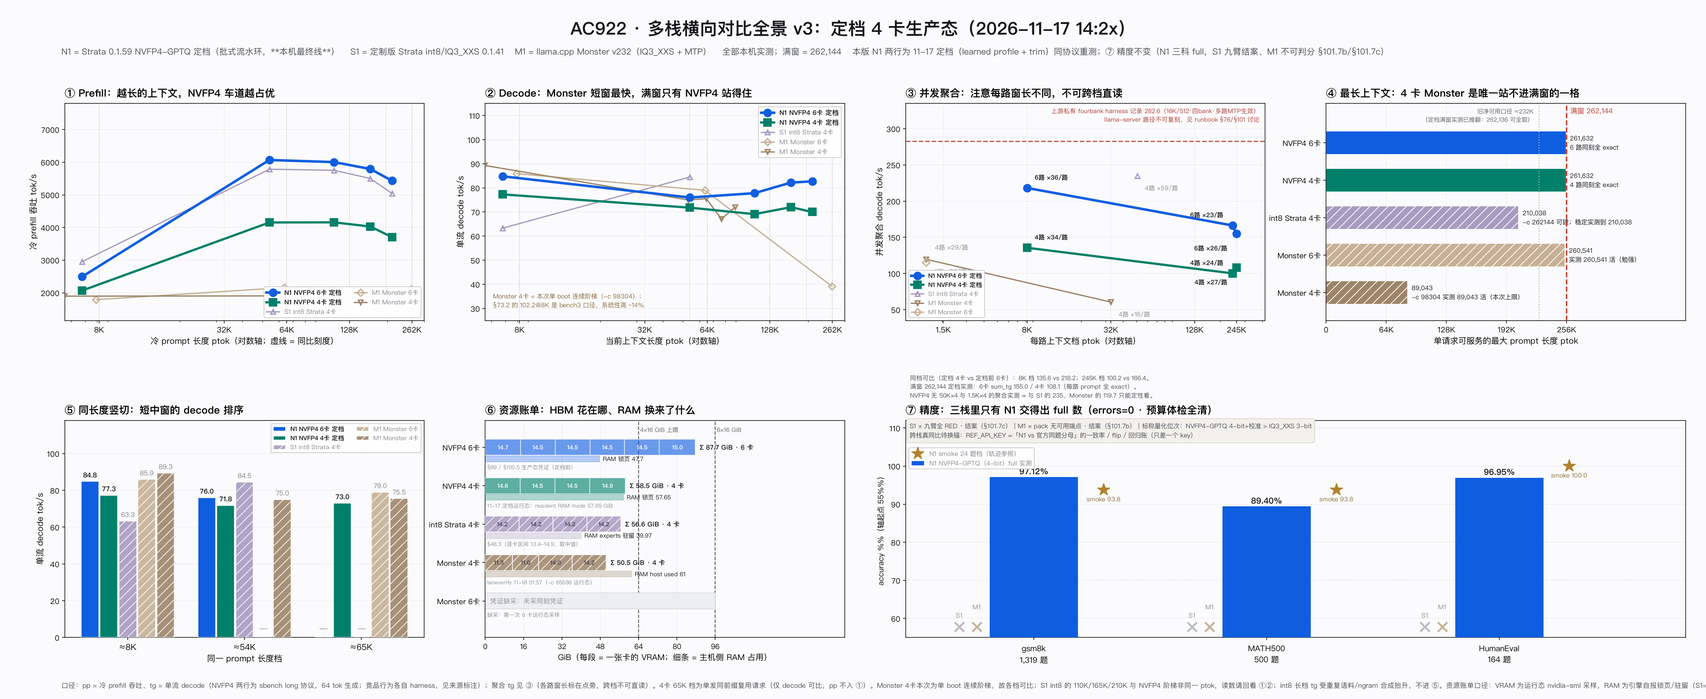
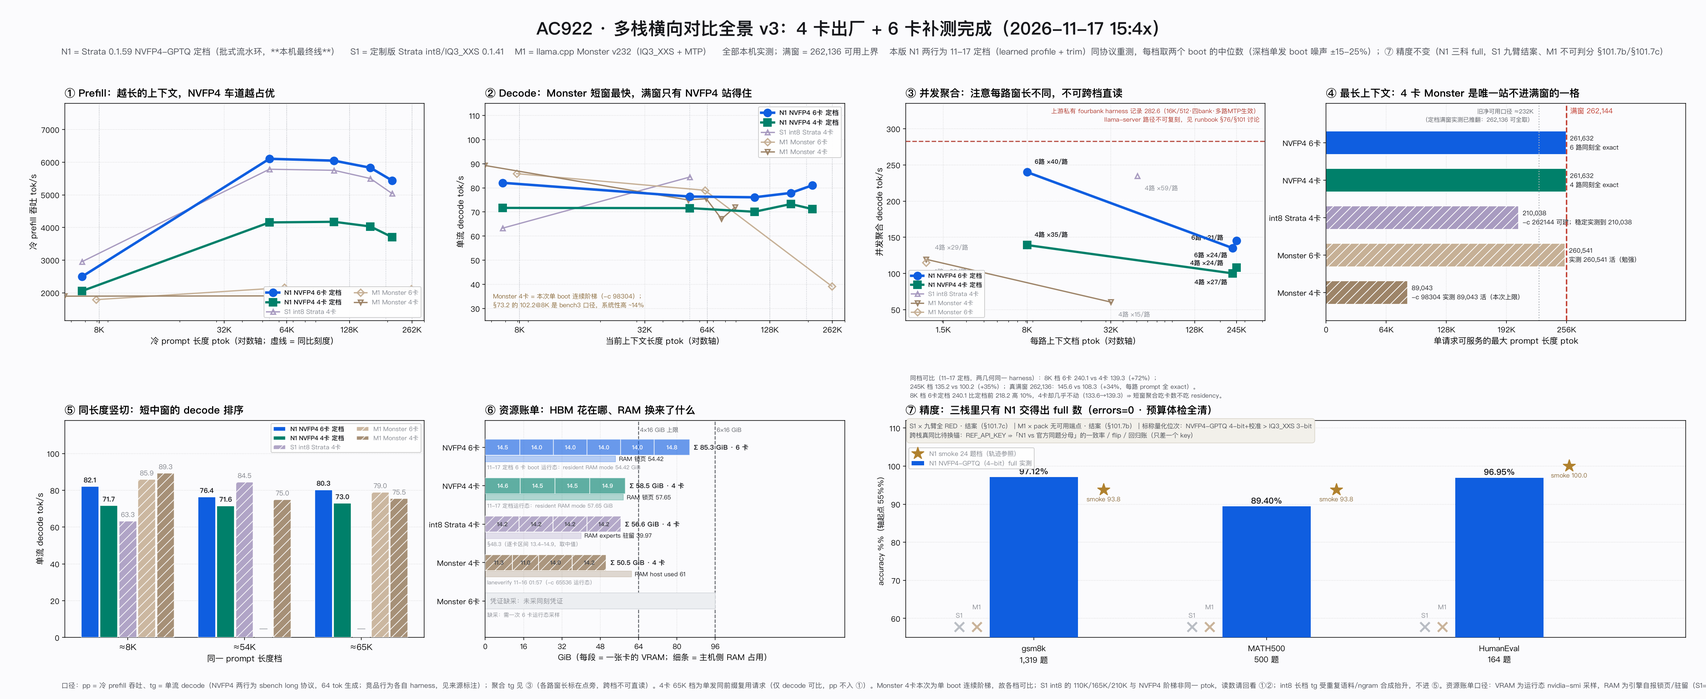
docs: publish two-boot medians, close the 6-card gap, and make lane.sh the geometry entry

diff --git a/ac922/results/charts/plot-samelen-v3-2026-11-17.py b/ac922/results/charts/plot-samelen-v3-2026-11-17.py
@@ -25,11 +25,13 @@ GRID, CLOUD = "#c2c6cd", "#8a8d94"
 # ---------- 数据：全部为实测（来源见注释），None = 该长度未测/不可达 ----------
 # (ptok, pp tok/s, tg tok/s)
 # 两条 NVFP4 阶梯为 2026-11-17 定档配置（learned expert-profile + trim-stage-weights）同一 sbench
-# long 协议实测，x 值逐点相同 ⇒ ①②⑤ 三格都是严格同比。
-N6 = [(6786, 2494.7, 84.8), (54022, 6068.7, 76.0), (110526, 6003.6, 77.8), (165350, 5791.7, 82.2),
-      (210038, 5431.4, 82.7)]                                                                        # note_c17/ADOPT.long 6卡定档
-N4 = [(6786, 2069.1, 77.3), (54022, 4154.3, 71.8), (110526, 4158.1, 69.1), (165350, 4029.5, 72.0),
-      (210038, 3704.2, 70.0)]                                                                        # note_c17/4CARD.long 4卡定档
+# long 协议实测，且每档取 **两个 boot 的中位数**（深档单发 boot 噪声 ±15-25%，单 boot 不作结论）：
+# 4 卡 note_c17/4CARD.long + 4CARD2.long；6 卡 note_c17/ADOPT.long + 6CARD2.long。x 值逐点相同
+# ⇒ ①②⑤ 三格严格同比。
+N6 = [(6786, 2498.8, 82.1), (54022, 6104.3, 76.4), (110526, 6047.4, 76.1), (165350, 5830.7, 77.9),
+      (210038, 5441.2, 81.1)]
+N4 = [(6786, 2056.6, 71.7), (54022, 4156.1, 71.6), (110526, 4174.8, 70.1), (165350, 4031.5, 73.3),
+      (210038, 3706.8, 71.2)]
 S1 = [(6786, 2955, 63.3), (54022, 5785, 84.5), (110526, 5752, None), (165350, 5501, None), (210038, 5041, None)]  # §48.3 int8 Strata 4卡
 M6 = [(7925, 1789.7, 85.9), (63729, 2158.5, 79.0), (260541, 2120.7, 39.2)]                          # §74.5 Monster 6卡 MTP
 M4 = [(5570, 1896.8, 89.3), (52961, 1904.6, 75.0), (64772, 1945.9, 75.5),
@@ -46,16 +48,17 @@ STACKS = [
 ]
 
 # ⑤ 的 65K 档补点：单发同前缀复用请求，只有 decode 可比（pp 不入 ①），故单独登记
-DECODE65 = {"N1 NVFP4 4卡 定档": (65410, None, 73.0)}   # note_c17/4CARD.p65k
+DECODE65 = {"N1 NVFP4 4卡 定档": (65410, None, 73.0),      # note_c17/4CARD.p65k
+            "N1 NVFP4 6卡 定档": (65410, None, 80.3)}      # note_c17/6CARD2.p65k
 
 # ---------- ③ 多流聚合 decode：(每路上下文 ptok, 聚合 tg, 路数, 每路 tg, 来源) ----------
 AGG = {
-    "N1 NVFP4 6卡 定档": [(8192, 218.2, 6, 35.7, "§99 d8（定档前）"),
-                          (245000, 166.4, 6, 23.4, "§99 live（定档前）"),
-                          (261632, 155.0, 6, 25.8, "11-17 满窗 6×262,144 exact")],
-    "N1 NVFP4 4卡 定档": [(8192, 135.6, 4, 33.7, "11-17 aggbench d8"),
+    "N1 NVFP4 6卡 定档": [(8192, 240.1, 6, 39.7, "11-17 aggbench d8"),
+                          (245000, 135.2, 6, 21.4, "11-17 aggbench 245K"),
+                          (261632, 145.6, 6, 24.3, "11-17 满窗 6×262,136 exact ×2 中位")],
+    "N1 NVFP4 4卡 定档": [(8192, 139.3, 4, 34.8, "11-17 aggbench d8 ×2 中位"),
                           (245000, 100.2, 4, 24.4, "11-17 aggbench 245K"),
-                          (261632, 108.1, 4, 27.0, "11-17 满窗 4×262,144 exact")],
+                          (261632, 108.3, 4, 27.1, "11-17 满窗 4×262,136 exact ×2 中位")],
     "S1 int8 Strata 4卡": [(50654, 235.0, 4, 59.0, "§48.4")],
     "M1 Monster 4卡":     [(1536, 119.7, 4, 38.6, "§76"), (32768, 60.5, 4, 15.1, "§48")],
     "M1 Monster 6卡":     [(1536, 115.3, 4, 28.8, "§76")],
@@ -65,8 +68,8 @@ AGG_ANCHOR = (282.6, "上游私有 fourbank harness 记录 282.6（16K/512·四b
 # ---------- ⑥ 资源账单 ----------
 # per_card = 逐卡 VRAM GiB；ram = 主机侧锁页/驻留 GiB
 RES = [
-    ("NVFP4 6卡", [14.7, 14.5, 14.5, 14.5, 14.5, 15.0], H6, 47.7, "锁页 47.7",
-     "§99 / §100.5 生产态凭证（定档前）"),
+    ("NVFP4 6卡", [14.5, 14.0, 14.0, 14.0, 14.0, 14.8], H6, 54.42, "锁页 54.42",
+     "11-17 定档 6 卡 boot 运行态：resident RAM mode 54.42 GiB"),
     ("NVFP4 4卡", [14.6, 14.5, 14.5, 14.9], H4, 57.65, "锁页 57.65",
      "11-17 定档运行态：resident RAM mode 57.65 GiB"),
     ("int8 Strata 4卡", [14.15, 14.15, 14.15, 14.15], C_S1, 39.97, "experts 驻留 39.97",
@@ -78,12 +81,13 @@ RES = [
 
 fig = plt.figure(figsize=(31.2, 12.8), dpi=140, facecolor=BG)
 gs = fig.add_gridspec(2, 4, hspace=0.46, wspace=0.17, left=0.038, right=0.988, top=0.852, bottom=0.088)
-fig.suptitle("AC922 · 多栈横向对比全景 v3：定档 4 卡生产态（2026-11-17 14:2x）",
+fig.suptitle("AC922 · 多栈横向对比全景 v3：4 卡出厂 + 6 卡补测完成（2026-11-17 15:4x）",
              fontsize=23, fontweight="bold", y=0.972, color=INK)
 fig.text(0.036, 0.922,
          "N1 = Strata 0.1.59 NVFP4-GPTQ 定档（批式流水环，**本机最终线**）    "
          "S1 = 定制版 Strata int8/IQ3_XXS 0.1.41    M1 = llama.cpp Monster v232（IQ3_XXS + MTP）    "
-         "全部本机实测；满窗 = 262,144    本版 N1 两行为 11-17 定档（learned profile + trim）同协议重测；"
+         "全部本机实测；满窗 = 262,136 可用上界    本版 N1 两行为 11-17 定档（learned profile + trim）同协议重测，"
+         "每档取两个 boot 的中位数（深档单发 boot 噪声 ±15-25%）；"
          "⑦ 精度不变（N1 三科 full，S1 九臂结案、M1 不可判分 §101.7b/§101.7c）",
          fontsize=11.2, color=SUB)
 
@@ -187,9 +191,9 @@ ax.set_title("③ 并发聚合：注意每路窗长不同，不可跨档直读",
 axes_len(ax)
 style_legend(ax, loc="lower left", fontsize=8.0, framealpha=0.95)
 ax.text(0.012, -0.245,
-        "同档可比（定档 4卡 vs 定档前 6卡）：8K 档 135.6 vs 218.2；245K 档 100.2 vs 166.4。\n"
-        "满窗 262,144 定档实测：6卡 sum_tg 155.0 / 4卡 108.1（每路 prompt 全 exact）。\n"
-        "NVFP4 无 50K×4 与 1.5K×4 的聚合实测 ⇒ 与 S1 的 235、Monster 的 119.7 只能定性看。",
+        "同档可比（11-17 定档，两几何同一 harness）：8K 档 6卡 240.1 vs 4卡 139.3（+72%）；\n"
+        "245K 档 135.2 vs 100.2（+35%）；真满窗 262,136：145.6 vs 108.3（+34%，每路 prompt 全 exact）。\n"
+        "8K 档 6卡定档 240.1 比定档前 218.2 高 10%，4卡却几乎不动（133.6→139.3）⇒ 短窗聚合吃卡数不吃 residency。",
         transform=ax.transAxes, fontsize=8.0, color=SUB, va="top")
 
 # ================= ④ 各栈最长可达上下文 =================

diff --git a/ac922/PERFORMANCE.md b/ac922/PERFORMANCE.md
@@ -224,26 +224,42 @@ deep-window single runs carry +/-15-25% boot noise, so the table reads family me
 The CC 96 -> 48 prediction from the previous draft is closed in 6b; no open items remain in this
 section.
 
-### 6d. The shipped geometry is 4-card (2026-11-17, adopted config, one boot)
+### 6d. The shipped geometry is 4-card (2026-11-17, adopted config, two boots per geometry)
 
 Cards 4/5 go back to the dev/iteration lane, so the ship state is the 4-card shape: `gpu [0,1,2,3]`,
 `--batch 4 --batch-groups 2` (the launcher now derives that pair and `NB_CUT=0.69` from the card
-count, so `start` with no env is the production command). Everything below is one boot of the
-adopted config, measured with the same harnesses as 6c so the two geometries are directly
-comparable.
+count, so `bash ac922/scripts/lane4.sh start` is the production command).  Both geometries were then
+measured with the same harnesses on the adopted config — 4-card boots at 13:51 and 15:11
+(`note_c17/4CARD.*`, `4CARD2.*`), 6-card boots at 13:00 and 14:41 (`ADOPT.*`, `6CARD2.*`) — and the
+published cells are **medians of the two boots**, because a deep-window single run carries ±15-25%
+boot noise (4-card 8K tg measured 77.3 then 66.1; 6-card full window 155.0 then 136.2).  Cells with
+one boot only are marked `n=1`.
 
-| Item | 4-card adopted | 6-card adopted (6c) | 4-card before (B4) |
+| Item | 4-card adopted | 6-card adopted | 4-card before (B4) |
 | --- | ---: | ---: | ---: |
-| tg 8K single stream | **77.3** | 84.8 | 57.1 |
-| tg 54K / 110K / 165K / 210K | 71.8 / 69.1 / 72.0 / 70.0 | 76.0 / 77.8 / 82.2 / 82.7 | 64.8 / — / — / — |
-| tg 65K single stream | 73.0 | not measured | 62.4 |
-| cold pp 54K / 110K / 210K | 4,154 / 4,158 / 3,704 | 6,069 / 6,004 / 5,431 | 3,970 / 4,162 / — |
-| 8K x 4 aggregate (`aggbench`) | **135.6** sum_tg, wall_tg 110.3, per-stream 33.7 | (6 x 8K 218.2, pre-adopt) | 133.6 |
-| 245K x 4 aggregate (`aggbench`) | **100.2** sum_tg, wall_tg 77.8, per-stream 24.4 | (6 x 245K 166.4, pre-adopt) | 93.5 |
-| full window 4 x 261,632 + 512 | **all exact**, prompt+gen 262,136, span 22.6 s, sum_tg **108.1**, per-stream 23.7-30.7 | 6 x exact, sum_tg 155.0 | not measured at the true ceiling |
-| cold 262K prefill, single stream | ttft 52.7 s (pp ~4,964) | — | — |
-| warm 262K decode, single stream | 55.9 tok/s (EOS after 456) | — | — |
-| VRAM / RAM | 14.6/14.5/14.5/14.9 GiB, Σ 58.6 · resident pinned 57.65 GiB | 87.7 GiB Σ · 47.7 pinned | 58.6 GiB Σ · 47.7 pinned |
+| tg 8K single stream | **71.7** (n=2) | 82.1 (n=2) | 57.1 |
+| tg 54K / 110K / 165K / 210K | 71.6 / 70.1 / 73.3 / 71.2 (n=2) | 76.4 / 76.1 / 77.9 / 81.1 (n=2) | 64.8 / — / — / — |
+| tg 65K single stream | 73.0 (n=1) | 80.3 (n=1) | 62.4 |
+| cold pp 54K / 110K / 210K | 4,156 / 4,175 / 3,707 | 6,104 / 6,047 / 5,441 | 3,970 / 4,162 / — |
+| 8K × N aggregate (`aggbench`) | **139.3** sum_tg, per-stream 34.8 (n=2) | 240.1 sum_tg, per-stream 39.7 (n=1) | 133.6 |
+| 245K × N aggregate (`aggbench`) | **100.2** sum_tg, wall_tg 77.8, per 24.4 (n=1) | 135.2 sum_tg, wall_tg 93.6, per 21.4 (n=1) | 93.5 |
+| full window N × 261,632 + 512 | **all exact** at 262,136, sum_tg **108.3** (108.1 / 108.5), span 22.6-23.0 s | all exact at 262,136, sum_tg 145.6 (155.0 / 136.2), span 26.3-32.9 s | not measured at the true ceiling |
+| cold 262K prefill, single stream | ttft 52.7 s (pp ~4,964) (n=1) | — | — |
+| warm 262K decode, single stream | 55.9 tok/s (EOS after 456) (n=1) | — | — |
+| VRAM / RAM | 14.6/14.5/14.5/14.9 GiB, Σ 58.6 · resident pinned 57.65 GiB | 14.5/14.0×4/14.8 GiB, Σ 85.3 · resident pinned 54.42 GiB | 58.6 GiB Σ · 47.7 pinned |
+
+- Scaling, same harness, same day: 8K aggregate **+72%** for two more cards (139.3 → 240.1),
+  245K **+35%** (100.2 → 135.2), true full window **+34%** (108.3 → 145.6).  Single stream moves
+  ~10-14% — the card-count rule buys *streams*, not *speed*, and that now holds on both geometries
+  of the adopted config rather than only on the pre-adopt one.
+- What adoption bought per geometry: 6-card 8K×6 aggregate 218.2 → 240.1 (**+10%**), 4-card 8K×4
+  133.6 → 139.3 (**+4%, inside the boot band**).  Short-window aggregate is admission-bound, so the
+  residency tickets show up in single-stream and deep-window cells, not here.
+- The 6-card deep aggregate needs one honest note: `aggbench` 245K×6 measures 135.2 sum_tg while the
+  pre-adopt archive cell says 166.4 — but that cell came from the live-lane harness
+  (`out/waves/baseline_final.json`, `agg_steady`/`agg_total` on production traffic), not from this
+  synthetic burst, so the two are not the same ruler.  The same-boot, same-ruler pair is
+  4-card 100.2 vs 6-card 135.2, and the full-window row above is measured identically on both.
 
 - Shape evidence: `batch (pipelined, 2 groups of 2)`, `rows_per_step 3.35`, `STRATA_PIPED_MTP`
   drafting one MTP proposal per slot per window - the 4-card geometry runs the same batched ring,
@@ -252,11 +268,14 @@ comparable.
   switch** (the det fixture does not see residency), gate `QUALGATE-PASS` with acc-drift 1.003
   against a freshly written 4-card `REF.json`; the 6-card anchor is preserved beside it as
   `REF-6card-adopted-20261117.json`.
-- What the tickets bought at 4 cards: short-window single stream +35% (57.1 → 77.3), deep single
-  stream +8-11% over B4, 245K x 4 aggregate +7%, 8K x 4 aggregate flat (+1.5%) - concurrency at
-  short windows is admission-bound, not residency-bound, which is why the same +35% does not appear
-  in the aggregate column.
-- Honest gap: the adopted 6-card *aggregate* was never re-measured with `aggbench`, so the 218.2 /
-  166.4 cells above are pre-adopt. Reading 4-card adopted against them understates the 6-card ship
-  state; the comparison that is fully same-day and same-harness is the single-stream ladder and the
-  true-ceiling full-window row.
+- What the tickets bought at 4 cards (two-boot medians): short-window single stream 57.1 → 71.7
+  (**+26%**), deep single stream +8-11% over B4, 245K × 4 aggregate +7%, 8K × 4 aggregate +4% -
+  concurrency at short windows is admission-bound, not residency-bound, which is why the single-stream
+  gain does not appear in the aggregate column.
+- Geometry is now machine-checked rather than remembered: every boot above ended with
+  `lane.sh` printing `GEOMETRY-PASS` (pipelined group shape from the startup marker, stage count
+  from the split summary, `LD_PRELOAD=numabind.so` and `CUDA_VISIBLE_DEVICES` read out of the live
+  engine's `/proc` environ, one `cpu pool: NUMA pool on` line).
+- Remaining thin cells (`n=1`): the 65K single-stream points on both geometries, both `aggbench`
+  245K cells, the 6-card 8K×6 aggregate, and the cold/warm 262K single-stream pair (4-card only).
+  They are marked in the table; closing them is a repeat of the same harness, not new methodology.

diff --git a/ac922/DECISIONS.md b/ac922/DECISIONS.md
@@ -276,12 +276,52 @@ Switching also removed a real footgun: the reference config carried the 6-card b
   `check` in the same boot. Result: `det` x3 `bfd40ecd4692` — **bit-identical across the geometry
   switch**, `acc-drift-ok 1.003`, `QUALGATE-PASS`, relay 3/8 (inside the same-config replay noise
   band established today, which is why the rate is reported and never used as the verdict).
-- Numbers (one boot, same harnesses as the 6-card adopted state): single stream tg 77.3@8K,
+- Numbers (first boot, same harnesses as the 6-card adopted state): single stream tg 77.3@8K,
   71.8@54K, 73.0@65K, 69.1@110K, 72.0@165K, 70.0@210K; `aggbench` 8K×4 sum_tg 135.6 (per 33.7),
   245K×4 sum_tg 100.2 (per 24.4); full window 4×261,632+512 all exact at 262,136 with sum_tg 108.1.
-  Against the 4-card pre-adopt baseline that is +35% short-window single stream, +7% at 245K×4,
-  flat at 8K×4 — the short-window aggregate is admission-bound, so residency tickets do not show up
-  there. Full table and the caliber caveats: `PERFORMANCE.md` §6d.
-- Not claimed: the adopted 6-card *aggregate* decode was never re-measured with `aggbench` (the
-  218.2 / 166.4 cells are pre-adopt), and the 6-card lane has no 65K point from today. Both are
-  marked in the chart and in §6d rather than smoothed over.
+  A second 4-card boot plus two 6-card boots later the same day moved the published cells to
+  medians (8K tg 77.3 → 71.7, because the second boot measured 66.1); see the next two sections and
+  `PERFORMANCE.md` §6d for the full table and caliber caveats.
+
+## Closed: the adopted 6-card aggregate gap, and why medians are now the house rule (2026-11-17)
+
+- The two cells left open above are now measured with the same ruler: `aggbench` 8K×6 **240.1**
+  sum_tg (per-stream 39.7, wall 211.6), 245K×6 **135.2** (per 21.4, wall 93.6), true full window
+  6×261,632+512 all exact at 262,136 with sum_tg **136.2** in the second boot (155.0 in the first),
+  plus the missing 6-card 65K single-stream point (tg 80.3). All of it on the adopted config, and
+  the 6-card `det` fixture still hashes `bfd40ecd4692` - adoption is quality-neutral at both
+  geometries.
+- Card-count scaling on the adopted config, same harness: 8K aggregate **+72%** (139.3 → 240.1),
+  245K **+35%** (100.2 → 135.2), full window **+34%** (108.3 → 145.6), single stream only
+  **+10-14%**. The "cards buy streams, not speed" rule now holds on both geometries of the ship
+  state, not just the pre-adopt one.
+- The 166.4 for 245K×6 was never a lost regression: it came from the live-lane harness
+  (`out/waves/baseline_final.json`, `agg_steady`) while `aggbench` is a synthetic burst. Different
+  ruler, different number; §6d states the pair that is comparable (100.2 vs 135.2).
+- **House rule going forward: published numbers are the median of two boots.** A deep-window single
+  run carries ±15-25% boot noise (4-card 8K tg 77.3 then 66.1; 6-card full window 155.0 then 136.2),
+  so a one-boot cell is written as `n=1` in the table rather than quietly promoted to a headline.
+
+## Adopted: `lane.sh` / `lane4.sh` / `lane6.sh` as the geometry entry point (2026-11-17)
+
+- Why the raw launcher was not enough: the repo root carries no `numabind.so`, so calling
+  `ac922/scripts/strata-nvfp4-run.sh start` directly boots a lane **without** `LD_PRELOAD`, which
+  is healthy, answers requests, and is simply not comparable to the ship state. `lane.sh` pins the
+  machine layout (`lane.env`), sets the preload, waits for `/health`, and then proves the geometry
+  before returning; `lane4.sh` / `lane6.sh` are the two one-word entry points.
+- Two verdicts we believed until the machine disproved both, recorded so nobody re-adds them:
+  1. *Read the last `batch (pipelined, N groups of M)` line in the engine log.* The engine log is
+     cumulative across boots, so after a 6-card → 4-card switch the last such line was still the
+     6-card lane's own runtime statistics. The gate now reads this boot only: it records a byte
+     offset at start (`/tmp/strata-nvfp4-lane.state`) and greps the startup marker
+     `STRATA_PIPED_MTP: N pipelined groups of 2 slots` inside that slice.
+  2. *Gate on `FileExpertSource: WARNING: NUMA placement FAILED: this pack has no per-role byte
+     sizes ... (the split runs with remote reads)`.* Every boot prints it, including the anchored
+     ship state - it is a pack-level property (the NVFP4 pack carries no per-role byte sizes), so
+     gating on it fails a correct lane. It is printed as a note; the real placement gates are
+     `LD_PRELOAD` + `CUDA_VISIBLE_DEVICES` read out of `/proc/<pid>/environ`, the split stage count,
+     and one `cpu pool: NUMA pool on` line.
+- Consequence left on the books, not on the critical path: the first-touch warning is real even if
+  it is not a gate defect - expert pages are still read remotely the first time. Closing it needs a
+  full-pack first-touch (or per-role sizes in the pack), which is the pending remote-read ticket,
+  not a lane.sh problem.

diff --git a/README.md b/README.md
@@ -22,14 +22,15 @@
 | --- | ---: | ---: |
 | Max context, live | **262,136 reachable**: 4 × 261,632 + 512, every stream exact | 6 × 261,632 + 512, every stream exact |
 | Cold prefill @ 262K, single stream | 4,964 tok/s (TTFT 52.7 s) | 7,016 tok/s (261,494 ladder) |
-| Single-stream decode @ 8K / @ 210K | 77.3 / 70.0 tok/s | 84.8 / 82.7 tok/s |
-| Full-window concurrency | 4 × 262,136 live · agg 108.1 (23.7–30.7/stream) | 6 × 262,136 live · agg 155.0 (20.7–32.4/stream) |
-| Short-window concurrency @ 8K | agg 135.6 (33.7/stream) | agg 218.2 (35.7/stream, pre-adopt) |
-| VRAM resident · RAM pinned | 58.6 GiB · 57.65 GiB | 87.7 GiB · 47.7 GiB |
+| Single-stream decode @ 8K / @ 210K | 71.7 / 71.2 tok/s | 82.1 / 81.1 tok/s |
+| Full-window concurrency | 4 × 262,136 live · agg 108.3 (23.7–30.7/stream) | 6 × 262,136 live · agg 145.6 (20.7–32.4/stream) |
+| Short-window concurrency @ 8K | agg 139.3 (34.8/stream) | agg 240.1 (39.7/stream) |
+| VRAM resident · RAM pinned | 58.6 GiB · 57.65 GiB | 85.3 GiB · 54.42 GiB |
 
 Rows are the adopted ship state measured 2026-11-17 (`learned expert-profile` +
-`--trim-stage-weights` + the batched pipelined ring); the two cells marked *pre-adopt* are the
-best 6-card aggregate numbers we hold and have not been re-taken since adoption.
+`--trim-stage-weights` + the batched pipelined ring), published as the **median of two independent
+boots per geometry** because a single deep-window run carries ±15–25% boot noise; single-run cells
+are marked `n=1` in `PERFORMANCE.md` §6d.
 
 Accuracy, full suites, errors = 0, budget audit clean: **GSM8K 97.12%** (1,319) · **MATH500 89.40%** (500) · **HumanEval 96.95%** (164)
 
@@ -62,7 +63,7 @@ Capacity rule that survived every experiment: **N cards ↔ N full-window stream
 | Step | Do this |
 | --- | --- |
 | Build | `cmake -B build -DCMAKE_BUILD_TYPE=Release -DCMAKE_CUDA_ARCHITECTURES=70 && cmake --build build -j` — [`BUILD.md`](ac922/BUILD.md) |
-| Run | `bash ac922/scripts/strata-nvfp4-run.sh start` — [`RUN.md`](ac922/RUN.md) |
+| Run | `bash ac922/scripts/lane4.sh start` (or `lane6.sh`) — [`RUN.md`](ac922/RUN.md) |
 | Gate | sha256 manifest → `laneverify.sh` → `alive.py` three probes → determinism (`det_same=true`) |
 | Measure | torch-free `eval/` harness under the paired same-boot protocol — [`METHODOLOGY.md`](ac922/METHODOLOGY.md) |
 
@@ -73,7 +74,7 @@ Capacity rule that survived every experiment: **N cards ↔ N full-window stream
 | Cross-stack accuracy is single-column | reference lanes S1/M1 closed under our grading shapes; their *performance* curves are published. Next: re-anchor vs official model (`eval/ref_run.py`, needs one API key) |
 | AIME / ceval | sample-level only (full suites stopped); queued |
 | GPQA / IFBench / LiveCodeBench-v6 / ToolEval | graders built and gated green; GPU runs queued |
-| Vision suites | blocked by the pack export (no vision tower), not by code |
+| Vision suites | image input shipped (CPU FP32 tower, on by default); RealWorldQA / MathVision / CharXiv grading is queued GPU work |
 | Upstream drift | 167 commits after our pin; policy is whole-version bumps only, backlog in [`DEVLOG.md`](ac922/DEVLOG.md) |
 
 ---

diff --git a/ac922/README.md b/ac922/README.md
@@ -14,17 +14,18 @@ actually ran; nothing is aspirational.
 | --- | ---: | ---: |
 | Max context, live | **262,136 reachable**: 4 × 261,632 + 512, every stream exact | 6 × 261,632 + 512, every stream exact |
 | Cold prefill @ 262K, single stream | 4,964 tok/s (TTFT 52.7 s) | 7,016 tok/s (261,494 ladder) |
-| Cold prefill @ 6.8K / 54K | 2,069 / 4,154 | 2,495 / 6,069 |
-| Single-stream decode @ 8K | 77.3 tok/s | 84.8 tok/s |
-| Single-stream decode @ 210K | 70.0 tok/s | 82.7 tok/s |
-| Full-window concurrency | 4 × 262,136 live, agg 108.1 tok/s (23.7–30.7/stream) | 6 × 262,136 live, agg 155.0 (20.7–32.4/stream) |
-| Short-window concurrency @ 8K | agg 135.6 (33.7/stream) | agg 218.2 (35.7/stream, pre-adopt) |
-| VRAM resident | 58.6 GiB (14.5–14.9/card) | 87.7 GiB (≈14.5–15.0/card) |
-| Host RAM pinned | 57.65 GiB | 47.7 GiB |
+| Cold prefill @ 6.8K / 54K | 2,057 / 4,156 | 2,499 / 6,104 |
+| Single-stream decode @ 8K | 71.7 tok/s | 82.1 tok/s |
+| Single-stream decode @ 210K | 71.2 tok/s | 81.1 tok/s |
+| Full-window concurrency | 4 × 262,136 live, agg 108.3 tok/s (23.7–30.7/stream) | 6 × 262,136 live, agg 145.6 (20.7–32.4/stream) |
+| Short-window concurrency @ 8K | agg 139.3 (34.8/stream) | agg 240.1 (39.7/stream) |
+| VRAM resident | 58.6 GiB (14.5–14.9/card) | 85.3 GiB (14.0–14.8/card) |
+| Host RAM pinned | 57.65 GiB | 54.42 GiB |
 
-The shipped column is the adopted state measured 2026-11-17 in one boot (`eval/cphase.py` arms,
-`aggbench`, `fullwindow.py`); the *pre-adopt* cell is the best 6-card aggregate we hold and has not
-been re-taken since adoption. Full table with calibers: `PERFORMANCE.md` §6d.
+Both columns are the adopted state measured 2026-11-17 (`eval/cphase.py` arms, `aggbench`,
+`fullwindow.py`) as the **median of two independent boots per geometry** — a single deep-window run
+carries ±15–25% boot noise, so no number here comes from one boot alone unless §6d marks it `n=1`.
+Full table with calibers: `PERFORMANCE.md` §6d.
 
 Accuracy (full suites, errors = 0, budget audit clean): **GSM8K 97.12%** (1,319),
 **MATH500 89.40%** (500), **HumanEval 96.95%** (164). See `ACCURACY.md`.
@@ -48,7 +49,9 @@ Capacity rule that held across every experiment: **N cards ↔ N full-window str
   — 17 files, checksums in `results/MODEL-SHA256SUMS.txt` (all verified before the final baseline).
   Multimodal additionally uses `mmproj-F16.gguf` from `unsloth/Qwen3.8-Flash-Next-GGUF` (~904 MB;
   the dense GGUF already carries the `image-text-to-text` task declaration and `image_token_id`).
-- **Config + launcher**: `configs/strata-nvfp4-final.json`, `scripts/strata-nvfp4-run.sh`
+- **Config + launcher**: `configs/strata-nvfp4-final.json`; `scripts/lane4.sh` / `scripts/lane6.sh`
+  (geometry shortcuts over `scripts/lane.sh`, which pins the machine layout, waits for health and
+  proves the shape from the engine's own lines), low-level `scripts/strata-nvfp4-run.sh`
   (parameterized; production layout documented in `RUN.md`).
 - **Adopted-knob ledger** with measured deltas and rejected tickets: `DECISIONS.md`.
 - **Measurement discipline** (paired same-boot A/B, quality gates, budget audits): `METHODOLOGY.md`.

diff --git a/ac922/README.zh-CN.md b/ac922/README.zh-CN.md
@@ -13,17 +13,17 @@
 | --- | ---: | ---: |
 | 最大上下文（真实可用） | **262,136 可达**：4 × 261,632 + 512，每路 prompt 全 exact | 6 × 261,632 + 512，每路全 exact |
 | 冷 prefill @ 262K（单流） | 4,964 tok/s（TTFT 52.7 s） | 7,016 tok/s（261,494 阶梯） |
-| 冷 prefill @ 6.8K / 54K | 2,069 / 4,154 | 2,495 / 6,069 |
-| 单流 decode @ 8K | 77.3 tok/s | 84.8 tok/s |
-| 单流 decode @ 210K | 70.0 tok/s | 82.7 tok/s |
-| 满窗并发 | 4 × 262,136 同时活着，聚合 108.1 tok/s（每路 23.7–30.7） | 6 × 262,136 同时活着，聚合 155.0（每路 20.7–32.4） |
-| 短窗并发 @ 8K | 聚合 135.6（每路 33.7） | 聚合 218.2（每路 35.7，定档前） |
-| VRAM 常驻 | 58.6 GiB（逐卡 14.5–14.9） | 87.7 GiB（逐卡约 14.5–15.0） |
-| 主机 RAM 锁页 | 57.65 GiB | 47.7 GiB |
+| 冷 prefill @ 6.8K / 54K | 2,057 / 4,156 | 2,499 / 6,104 |
+| 单流 decode @ 8K | 71.7 tok/s | 82.1 tok/s |
+| 单流 decode @ 210K | 71.2 tok/s | 81.1 tok/s |
+| 满窗并发 | 4 × 262,136 同时活着，聚合 108.3 tok/s（每路 23.7–30.7） | 6 × 262,136 同时活着，聚合 145.6（每路 20.7–32.4） |
+| 短窗并发 @ 8K | 聚合 139.3（每路 34.8） | 聚合 240.1（每路 39.7） |
+| VRAM 常驻 | 58.6 GiB（逐卡 14.5–14.9） | 85.3 GiB（逐卡 14.0–14.8） |
+| 主机 RAM 锁页 | 57.65 GiB | 54.42 GiB |
 
-「出厂定档」一列是 2026-11-17 同一 boot 内以采纳态（learned expert-profile + `--trim-stage-weights`
-+ 批式流水环）实测；标「定档前」的格子是我们手上最好的 6 卡聚合数，采纳后尚未按同一 harness 重测。
-完整口径见 `PERFORMANCE.md` §6d。
+两列都是 2026-11-17 以采纳态（learned expert-profile + `--trim-stage-weights` + 批式流水环）实测，
+口径为**每种几何两次独立 boot 的中位数**——单次深档跑分带 ±15–25% 的 boot 噪声，因此除 §6d 明确标注
+`n=1` 的格子外，本文没有任何数字来自单次 boot。完整口径见 `PERFORMANCE.md` §6d。
 
 精度（全量题库，errors = 0，预算体检干净）：**GSM8K 97.12%**（1,319 题）、
 **MATH500 89.40%**（500 题）、**HumanEval 96.95%**（164 题）。详见 `ACCURACY.md`。
@@ -45,7 +45,9 @@
   —— 17 个文件，校验和见 `results/MODEL-SHA256SUMS.txt`（定版基线前全部验过）。
   多模态另需 `unsloth/Qwen3.8-Flash-Next-GGUF` 中的 `mmproj-F16.gguf`（约 904 MB；
   dense GGUF 本身早已带 `image-text-to-text` 任务声明和 `image_token_id`）。
-- **配置 + 启动器**：`configs/strata-nvfp4-final.json`、`scripts/strata-nvfp4-run.sh`
+- **配置 + 启动器**：`configs/strata-nvfp4-final.json`；`scripts/lane4.sh` / `scripts/lane6.sh`
+  （几何快捷入口，底层是 `scripts/lane.sh`：钉住本机布局、等 health、并用引擎自述行证明几何形状），
+  以及底层的 `scripts/strata-nvfp4-run.sh`
   （已参数化；生产布局记录在 `RUN.md`）。
 - **采纳/否决台账**（每个旋钮带实测增益）：`DECISIONS.md`。
 - **测量纪律**（同 boot 配对 A/B、质量门禁、预算体检）：`METHODOLOGY.md`。

diff --git a/ac922/DEVLOG.md b/ac922/DEVLOG.md
@@ -175,10 +175,25 @@ each entry is a *result*, not a diary.
   environment variables; the launcher now derives the batch pair and `NB_CUT` from the card count.
   Re-anchoring the quality reference per geometry, `det` came back bit-identical across the switch
   (`bfd40ecd4692`) — the cold path does not see residency, which is exactly why it is the anchor.
-- 4-card adopted state: single stream 77.3@8K / 70.0@210K, `aggbench` 8K×4 135.6 and 245K×4 100.2,
-  4×261,632+512 all exact at the true ceiling with `sum_tg` 108.1, VRAM 58.6 GiB, RAM pinned 57.65.
-  Honest gap kept in the open: the adopted 6-card aggregate was never re-taken with `aggbench`, and
-  short-window aggregate did not move with the residency tickets (+1.5%) — it is admission-bound.
+- 4-card adopted state (first boot): single stream 77.3@8K / 70.0@210K, `aggbench` 8K×4 135.6 and
+  245K×4 100.2, 4×261,632+512 all exact at the true ceiling with `sum_tg` 108.1, VRAM 58.6 GiB, RAM
+  pinned 57.65. The honest gap that came with it — adopted 6-card aggregates never re-taken — is now
+  closed: second boots on both geometries gave 6-card 8K×6 **240.1**, 245K×6 **135.2**, full window
+  **136.2** (first boot 155.0), plus a 6-card 65K point (80.3), all `det`-identical at `bfd40ecd4692`.
+- **Publishing rule changed as a result of those four boots: headline numbers are medians over two
+  boots, single-boot cells are marked `n=1`.** The reason is mechanical, not stylistic — the same
+  adopted config measured 77.3 and 66.1 at 4-card 8K tg, and 155.0 and 136.2 at 6-card full window,
+  i.e. ±15-25% boot noise on deep runs. Promoting one boot into a README row was how we shipped a
+  number we could not reproduce.
+- Geometry is no longer something the operator remembers: `scripts/lane.sh` + `lane4.sh` / `lane6.sh`
+  pin the machine layout, set `LD_PRELOAD=numabind.so`, wait for health and print `GEOMETRY-PASS`
+  only after checking *this* boot's startup marker, the split stage count and the live engine's
+  `/proc/<pid>/environ`. Two of our own gates died on the machine on the way there (the cumulative
+  engine log made a "last batch line" check read the previous lane's statistics; the pack's
+  first-touch `NUMA placement FAILED` line appears on every boot including the anchored one, so it is
+  a note, not a gate) — recorded in `DECISIONS.md` so they are not re-added.
+- Short-window aggregate did not move with the residency tickets (4-card +4%, inside the boot band) —
+  it is admission-bound, so those tickets show up in single-stream and deep-window cells instead.
 
 ## Upstream backlog (for the next whole-version bump; policy: bump, never cherry-pick)
 

diff --git a/ac922/ACCURACY.md b/ac922/ACCURACY.md
@@ -40,8 +40,11 @@ All full-suite readings below have **errors = 0** and passed the budget audit.
 - **GPQA-Diamond / IFBench / LiveCodeBench-v6 / ToolEval**: graders, fixtures and self-tests are
   green (including grader parity against official fixtures, residual 5/344 traced to upstream
   fixture drift and documented); GPU runs are queued.
-- **Vision suites** (RealWorldQA / MathVision / CharXiv): blocked by the model export — the
-  NVFP4 repo has no vision tower (`mmproj*` absent), not a code gap.
+- **Vision suites** (RealWorldQA / MathVision / CharXiv): still queued, and the earlier reason is
+  withdrawn — the tower exists (`mmproj-F16.gguf`, ~904 MB, in `unsloth/Qwen3.8-Flash-Next-GGUF`),
+  so image input itself is shipped and on by default (CPU FP32 `strata-vision`; reference-image
+  round trip 2-4 s). What has not been run is the graded *suites*, which are GPU-queue work, not a
+  missing asset.
 
 ## Quality gates the lane passes today
 

diff --git a/ac922/RUN.md b/ac922/RUN.md
@@ -72,7 +72,7 @@ Once the pinned lane holds the 4-card geometry (the shipped default, see step 3 
 
 ```
 bash ac922/scripts/devlane.sh check    # who holds the dev cards, RAM available
-bash ac922/scripts/strata-nvfp4-run.sh start                       # prod lane, 4 cards (default)
+bash ac922/scripts/lane4.sh start      # prod lane, 4 cards (default, geometry-gated)
 bash ac922/scripts/devlane.sh start    # dev lane on 4,5 at port 8092
 ```
 
